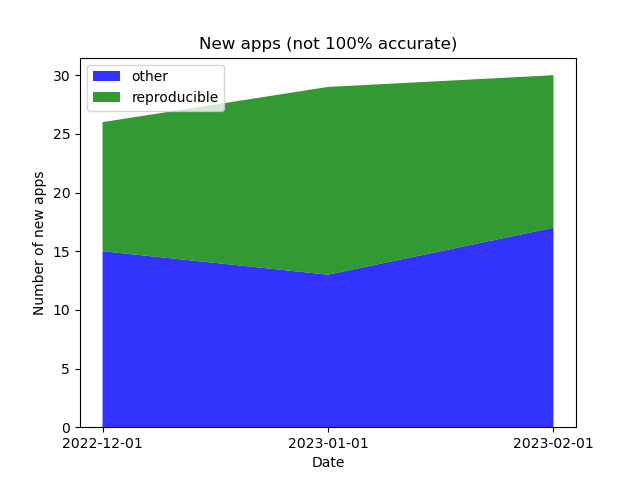
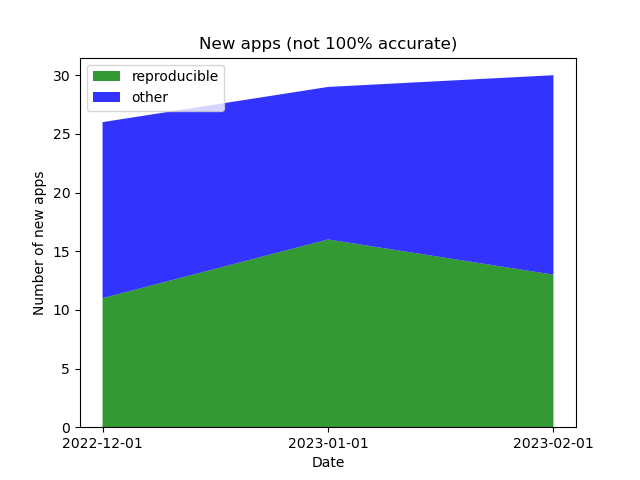
swap reproducible/other in adds.png

diff --git a/scripts/create-graphs.py b/scripts/create-graphs.py
@@ -47,7 +47,7 @@ def read_adds_data(dates: List[str]) -> Any:
             print(f"WARNING: new_repro apps not in new_total on {d}:")
             for appid in sorted(new_repro - new_total):
                 print(f"  {appid}")
-        data.append([len(new_total - new_repro), len(new_repro)])
+        data.append([len(new_repro), len(new_total - new_repro)])
     return np.transpose(data)
 
 
@@ -63,8 +63,8 @@ def plot_rb_data(title: str, dates: List[str], data: Any) -> None:
 
 
 def plot_adds_data(title: str, dates: List[str], data: Any) -> None:
-    labels = ["other", "reproducible"]
-    colors = ["blue", "green"]
+    labels = ["reproducible", "other"]
+    colors = ["green", "blue"]
     _, ax = plt.subplots()
     ax.stackplot(dates, np.vstack(data), labels=labels, colors=colors, alpha=0.8)
     ax.legend(loc="upper left")
